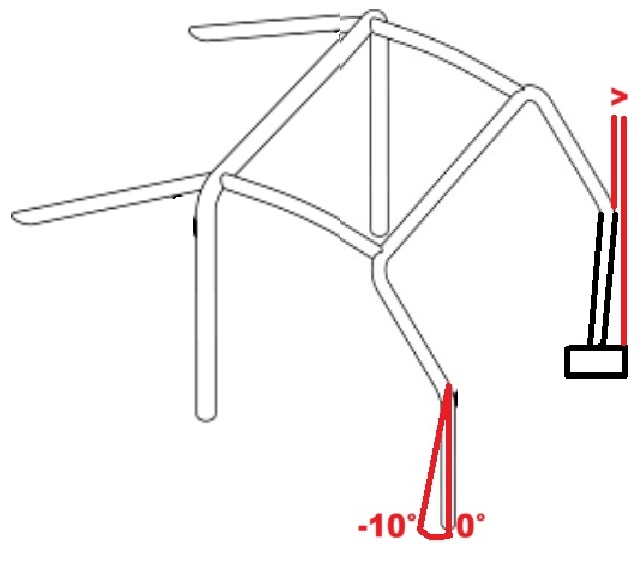
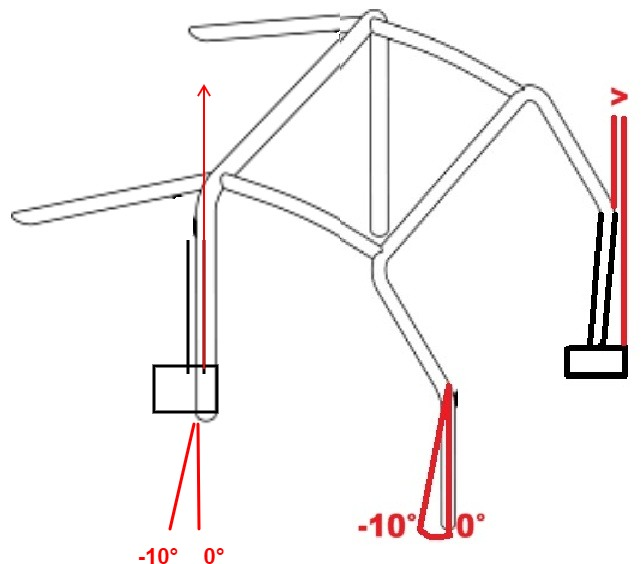
Rename/illustrate dimension A, mirror front-rollbar diagram markers, add 253-15 warning
"Dimension A (front rollbar pillar length)" is renamed to "253-15 Windscreen
pillar reinforcement dimension A", gets its own illustration, and moves into
"1. Installation constraints" alongside the other envelope-fit checks. When
a value over 200mm is entered there, a red "253-15 bar required" message
shows below the field (new elm.warnCompare/warnMessage mechanism, checked
in the numeric render branch).

The front-rollbar reference diagram (used by both "Front rollbar angle" and
"Front mounting feet forward of foremost rollbar") previously only marked
one of the two front pillars -- the -10/0 degree angle cone and the
foot-not-rearward box/reference-line marker are now drawn on both.

The stray "Notes" card between "Main structure construction quality" and
"BACKSTAY" (a second leftover flat-category note field) is removed.

Changed region(s): [[0.2177, 0.1507, 0.3421, 0.9344], [0.2177, 0.9645, 0.2799, 1.0], [0.311, 0.9645, 0.3421, 1.0]]

diff --git a/rules-data.js b/rules-data.js
@@ -241,6 +241,23 @@
       hardFail: true,
     },
     {
+      id: "a_pillar_dimension_a",
+      name: "253-15 Windscreen pillar reinforcement dimension A",
+      category: "1. Installation constraints",
+      hideNotes: true,
+      requirement: "required",
+      reference: "2020 FIA 253 Ch.8.3.2.1.4",
+      description: "Requires 253-15 windscreen pillar reinforcement if dimension A exceeds 200mm (which is the case for essentially all cars) -- mandatory regardless of dimension A for an ARA logbook.",
+      diagram: "253-15-dimension-a",
+      evaluationType: "numeric",
+      unit: "mm",
+      compare: { op: "gte", value: 0 },
+      warnCompare: { op: "gt", value: 200 },
+      warnMessage: "253-15 bar required",
+      visuallyVerifiable: false,
+      hardFail: false,
+    },
+    {
       id: "main_structure_layout",
       name: "Base structure layout",
       category: "Base structure layout",
@@ -517,20 +534,6 @@
       diagram: "front-rollbar-bend",
       visuallyVerifiable: true,
       hardFail: true,
-    },
-    {
-      id: "a_pillar_dimension_a",
-      name: "Dimension A (front rollbar pillar length)",
-      category: "Cage Design",
-      hideNotes: true,
-      requirement: "required",
-      reference: "2020 FIA 253 Ch.8.3.2.1.4",
-      description: "Requires 253-15 windscreen pillar reinforcement if dimension A exceeds 200mm (which is the case for essentially all cars) -- mandatory regardless of dimension A for an ARA logbook.",
-      evaluationType: "numeric",
-      unit: "mm",
-      compare: { op: "gte", value: 0 },
-      visuallyVerifiable: false,
-      hardFail: false,
     },
   ];
 
@@ -965,19 +968,6 @@
       rows: [{ id: "top_left", label: "Top or Left" }, { id: "bottom_right", label: "Bottom or Right" }],
       columns: gussetColumns(NASA_SECONDARY_REQ),
       visuallyVerifiable: true,
-      hardFail: false,
-    },
-    {
-      id: "main_diagonal_notes",
-      name: "Notes",
-      category: "Cage Design",
-      requirement: "informational",
-      reference: "",
-      description: "",
-      placeholder: "Notes for this section (e.g. anything unusual about the 253-7 diagonals, distances, tubing, or gussets above)...",
-      evaluationType: "longtext",
-      sectionPhotos: true,
-      visuallyVerifiable: false,
       hardFail: false,
     },
   ];

diff --git a/app.js b/app.js
@@ -1346,6 +1346,9 @@
         onchange: (e) => setAnswer(elm.id, { value: e.target.value }),
       });
       card.appendChild(el("div", { class: "numeric-row" }, [input, el("span", { class: "unit-label" }, [elm.unit || ""])]));
+      if (elm.warnCompare && elm.warnMessage && answer.value !== "" && answer.value !== undefined && compareOk(parseFloat(answer.value), elm.warnCompare)) {
+        card.appendChild(el("div", { class: "numeric-warning" }, [elm.warnMessage]));
+      }
     } else if (elm.evaluationType === "text") {
       const input = el("input", {
         type: "text",

diff --git a/style.css b/style.css
@@ -414,6 +414,7 @@ textarea { resize: vertical; min-height: 50px; }
 .numeric-input { max-width: 120px; }
 .numeric-field-label { flex: 1; font-size: 0.85rem; }
 .unit-label { color: var(--muted); font-size: 0.85rem; }
+.numeric-warning { color: var(--fail); font-weight: 600; font-size: 0.85rem; margin: 2px 0 6px; }
 
 .row-table-wrap { overflow-x: auto; margin: 8px 0; }
 .row-table { border-collapse: collapse; width: 100%; font-size: 0.82rem; }

diff --git a/index.html b/index.html
@@ -45,8 +45,8 @@
 
 <script src="https://cdnjs.cloudflare.com/ajax/libs/three.js/r128/three.min.js"></script>
 <script src="cage_view.js?v=82"></script>
-<script src="diagrams.js?v=19"></script>
-<script src="rules-data.js?v=41"></script>
-<script src="app.js?v=83"></script>
+<script src="diagrams.js?v=20"></script>
+<script src="rules-data.js?v=43"></script>
+<script src="app.js?v=84"></script>
 </body>
 </html>

diff --git a/diagrams.js b/diagrams.js
@@ -192,5 +192,8 @@
     '<div>' + wrapImg("installation_constraints_253-49.png") + "</div>" +
     "</div>";
 
+  // ---- 253-15 windscreen pillar reinforcement dimension A ----
+  D["253-15-dimension-a"] = wrapImg("253-15_dimension_a.png");
+
   window.DIAGRAMS = D;
 })();
